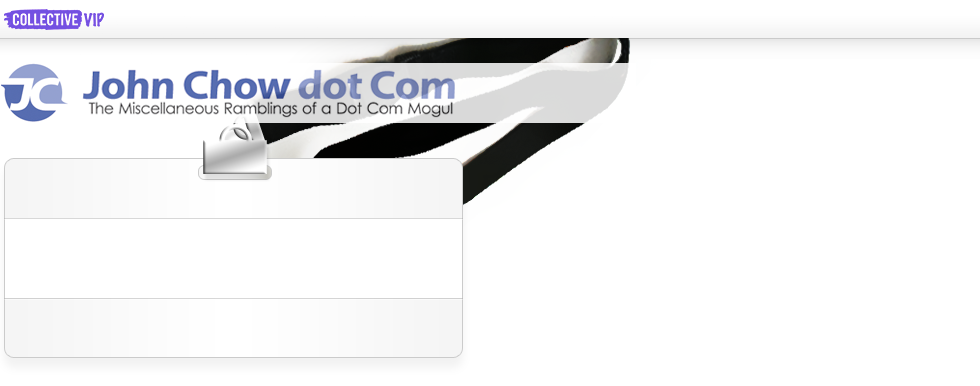
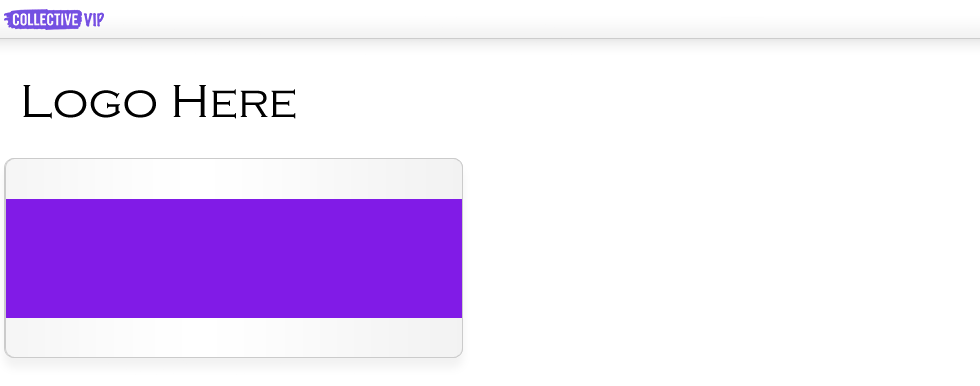
blogflow and overlay updates

Changed region(s): [[0.0, 0.0933, 0.6429, 0.8394]]

diff --git a/core/templates/blogvip_flow.html b/core/templates/blogvip_flow.html
@@ -18,17 +18,17 @@
 
 
 <div id="greeting">
-	Hello! 	  
+	John's offer to you and your friends:
 	<div id="status"></div>
 </div>
 
 
 <div id="invite-button">
-	<a href="" id="invite_button" rel="#overlay-blogger-login"><img src="{% url static 'images/look/button.png' %}"></a>
+	<a href="" id="invite_button" rel="#overlay-blogger-login">Share this to get your discount</a>
 </div>
 
 
-<div id="invitemsg">Share coupon with friends & get <b><font color="#8929e9">20% off</font></b></div>
+<div id="invitemsg">20% OFF ADMISSION TO BLOG WORLD</div>
 
 <div id="overlay-blogger-login" class="overlay-blogger">
 
@@ -36,16 +36,19 @@
 		<div class="overlay-top">
 			<img src="{% url static 'images/sharetxt.png' %}">
 		</div>
+		
+		<div id="pick-msg">To get your discount share John's offer with your friends on Facebook or Twitter, choose one:</div>
 		<div class="overlay-bot">
 			<div id="previous-grey"><img src="{% url static 'images/previous-grey.png' %}"></div>
-			<div id="invite-progress"><ul><li class="active">Select Network</li> <li>Message</li> <li>Discount</li></div>
+			<div id="invite-progress"><img src="{% url static 'images/step1.png' %}"></div>
+			<div id="next-grey"><img src="{% url static 'images/next-grey.png' %}"></div>
 		</div>
 		<BR /><BR />
 
 		<div id="overlay-div-facebook-login">
 			<script src="http://connect.facebook.net/en_US/all.js"></script>
+			
 			<div id="fb-root"></div>
-
 			<!--<button id="status_button">STATUS</button>-->
 			{% if fbuser %}
 			<br/>Facebook<br/>
@@ -78,7 +81,7 @@
 		</div>
 		<div class="overlay-bot">
 			<div id="previous" class="previous"><img src="{% url static 'images/previous.png' %}"></div>
-			<div id="invite-progress"><ul><li>Select Network</li> <li class="active">Message</li> <li>Discount</li></div>
+			<div id="invite-progress"><img src="{% url static 'images/step2.png' %}"></div>
 			{%if fbuser %}
 			<!--<img id="facebook-feed-update" src="{%url static 'images/facebook-sinvite.png' %}">-->
 			<!--FB Back Button-->
@@ -98,7 +101,7 @@
 		</div>
 		<div class="overlay-bot">
 			<div id="previous" class="previous"><img src="{% url static 'images/previous.png' %}"></div>
-			<div id="invite-progress"><ul><li>Select Network</li> <li class="active">Message</li> <li>Discount</li></div>
+			<div id="invite-progress"><img src="{% url static 'images/step2.png' %}"></div>
 			<div id="twitter-div-feed-update"><img src="{% url static 'images/share.png' %}" id="twitter-feed-update"></div>
 		</div>
 		<div id="twitter-top-msg">
@@ -115,7 +118,7 @@
 			<div id="previous" class="previous">
 				<img src="{% url static 'images/previous.png' %}">
 			</div>
-			<div id="invite-progress"><ul><li>Select Network</li> <li>Message</li> <li class="active">Discount</li></div>
+			<div id="invite-progress"><ul><img src="{% url static 'images/step3.png' %}"></div>
 			<div id="okay"><img src="{% url static 'images/done.png' %}"></div>
 		</div>
 		

diff --git a/static/css/overlay.css b/static/css/overlay.css
@@ -112,7 +112,7 @@
 #invite-progress{
 	font-size: 12px;
 	float: left;
-	margin: 18px 0px 0px 17px; 
+	margin: 8px 0px 0px 48px; 
 	}
 #invite-progress li{
 	display: inline;
@@ -138,21 +138,27 @@
 	}
 #next{
 	float:left;
-	margin: 10px 0px 0px 25px;
+	margin: 10px 0px 0px 62px;
 	width: 45px;
 	height: 27px;
 	cursor:pointer;
 	}
+#next-grey{
+	float:left;
+	margin: 10px 0px 0px 62px;
+	width: 45px;
+	height: 27px;
+	}
 #share{
 	float:left;
-	margin: 10px 0px 0px 25px;
+	margin: 10px 0px 0px 62px;
 	width: 45px;
 	height: 27px;
 	cursor:pointer;
 	}
 #okay{
 	float:left;
-	margin: 10px 0px 0px 25px;
+	margin: 10px 0px 0px 62px;
 	width: 45px;
 	height: 27px;
 	cursor:pointer;	
@@ -182,7 +188,7 @@ Facebook Elements
 #overlay-div-facebook-login {
 	text-align: center;
 	//background-color: #DEDEDE;
-	padding: 15px 0px 0px 70px;
+	padding: 0px 0px 0px 70px;
 	width: 128px;
 	float: left;
 	height: 128px;
@@ -197,7 +203,7 @@ Facebook Elements
 	//margin-top: 5px;
 	//margin-right: 10px;
 	float:left;
-	margin: 10px 0px 0px 25px;
+	margin: 10px 0px 0px 62px;
 	height: 27px;
 	width: 45px;
 	//float: right;
@@ -208,7 +214,7 @@ Facebook Elements
 	width: 45px;	
 }
 #facebook-login {
-	    margin-top: 10px;
+	    margin-top: 0px;
 	    width: 128px;
 	    height: 128px;
 	    cursor: pointer;
@@ -224,7 +230,7 @@ Twitter Elements
 #overlay-div-twitter-login {
 	text-align: center;
 	//background-color: #DEDEDE;
-	padding: 15px 70px 0px 0px;
+	padding: 0px 70px 0px 0px;
 	float: right;
 	width: 128px;
 	height: 128px;
@@ -237,7 +243,7 @@ Twitter Elements
 }
 #twitter-div-feed-update {
 	//margin: 5px 5px 0px 0px;
-	margin: 10px 0px 0px 25px;
+	margin: 10px 0px 0px 62px;
 	height: 27px;
 	width: 45px;
 	float: left;
@@ -249,7 +255,7 @@ Twitter Elements
 	width: 45px;
 }
 #twitter-login {
-	    margin-top: 10px;
+	    margin-top: 0px;
 		width: 128px;
 		height: 128px;
 }

diff --git a/static/css/2home.css b/static/css/2home.css
@@ -37,16 +37,19 @@
 }
 #header #invite-button
 {
-	left: 277px;
-	top: 238px;
+	top: 330px;
+	width: 460px;
+	text-align: center;
+	font-size: 16px;
+	font-weight: bold;
 }
 #header #greeting
 {
-	font-size: 26px;
+	font-size: 16px;
 	color: #444;
 	width: 422px;
-	left: 22px;
-	top: 178px;
+	left: 23px;
+	top: 173px;
 }
 #header #greeting #status
 {
@@ -58,12 +61,19 @@
 }
 #header #invitemsg
 {
-	font-size: 16px;
-	color: #444;
-	width: 160px;
-	left: 24px;
-	top: 244px;
+	font-size: 36px;
+	color: #fff;
+	width: 458px;
+	padding: 0px 8px 0px 8px;
+	top: 224px;
+	font-weight: bold;
+	text-align: center;
 }
+#pick-msg{
+	font-size: 14px;
+	text-align: center;
+	padding: 15px 10px 0px 10px;
+	}
 #header #dets
 {
 	background-image: url(../images/look/ptop.png);
@@ -120,12 +130,6 @@
 border:1px solid #ccc;
 }
 
-#header #invite-button>div:first-child
-{
-	background-position: left top;
-	height: auto;
-	padding: 20px 0 6px;
-}
 #eventinfo
 {
 	background-image: url(../images/info-bg.png);

diff --git a/core/templates/event_base.html b/core/templates/event_base.html
@@ -41,7 +41,7 @@
 	<div id="main">
 		<div id="header">
 					<div id ="f">
-					<div id="jclink"><a href="http://www.johnchow.com"><img src="{% url static 'images/jclink.png' %}"></a></div>	
+					<div id="jclink"></div>	
 
 				<div id="links"><a href="#">Get CollectiveVIP</a> &nbsp;&nbsp; <a href="#">How it Works</a> &nbsp;&nbsp; <a href="#">Contact</a></div>
     <!-- Header Content -->
